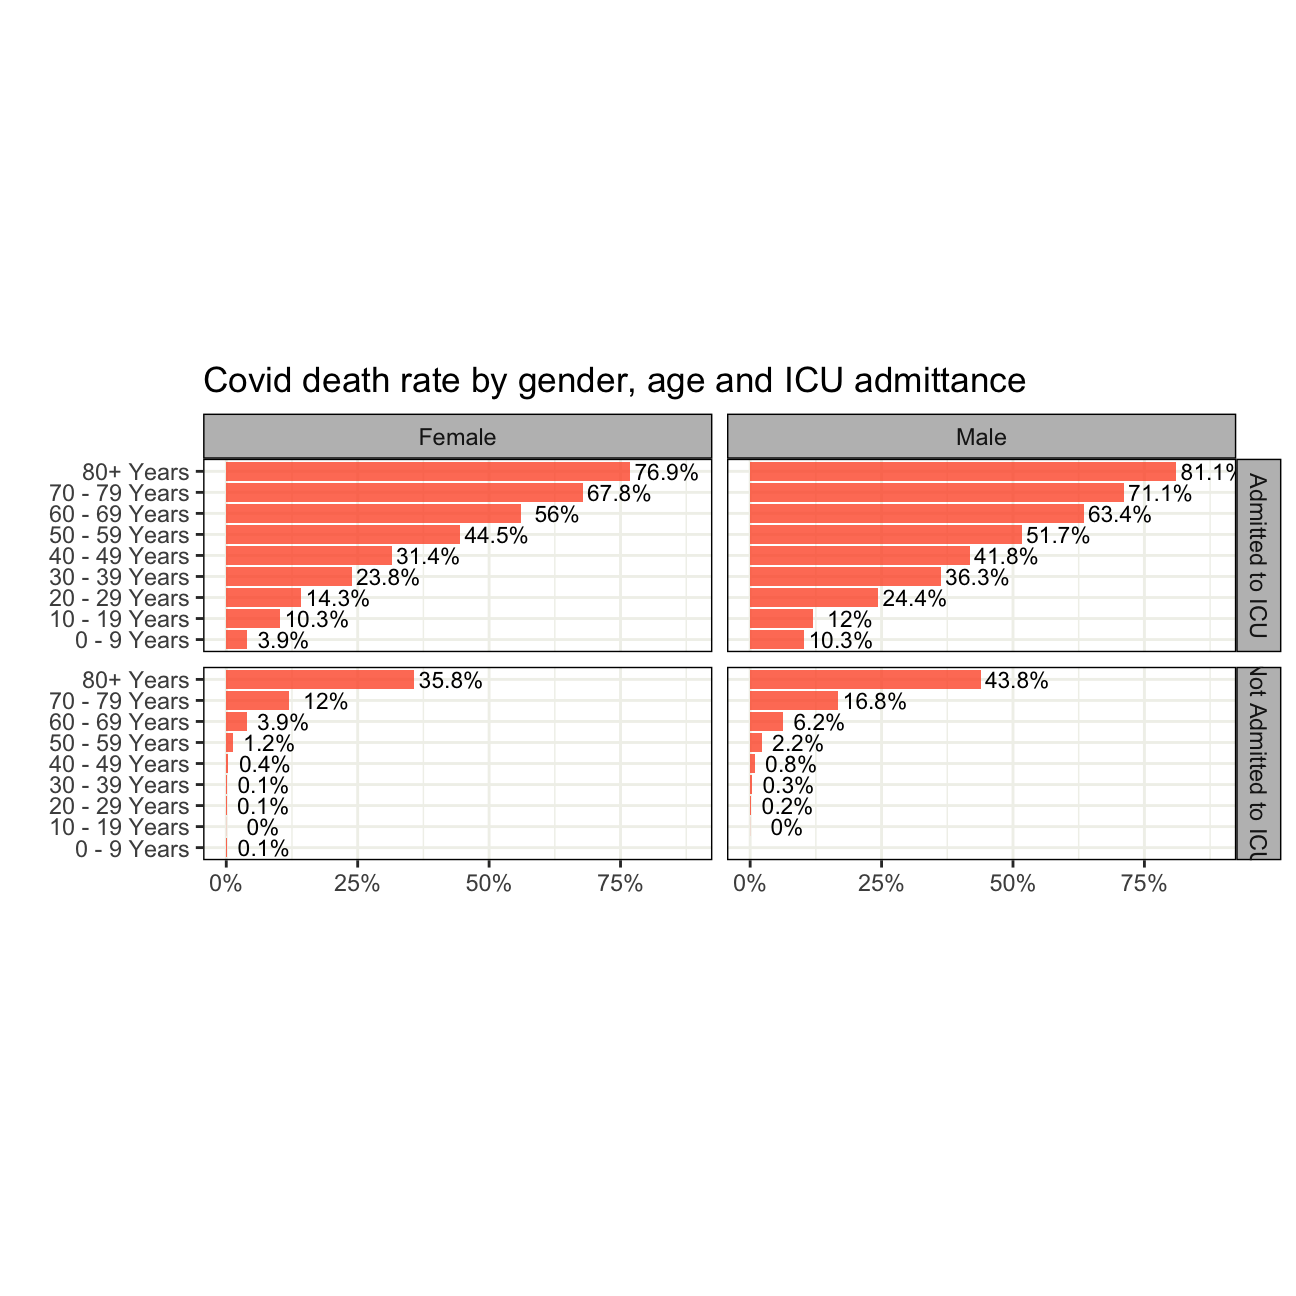
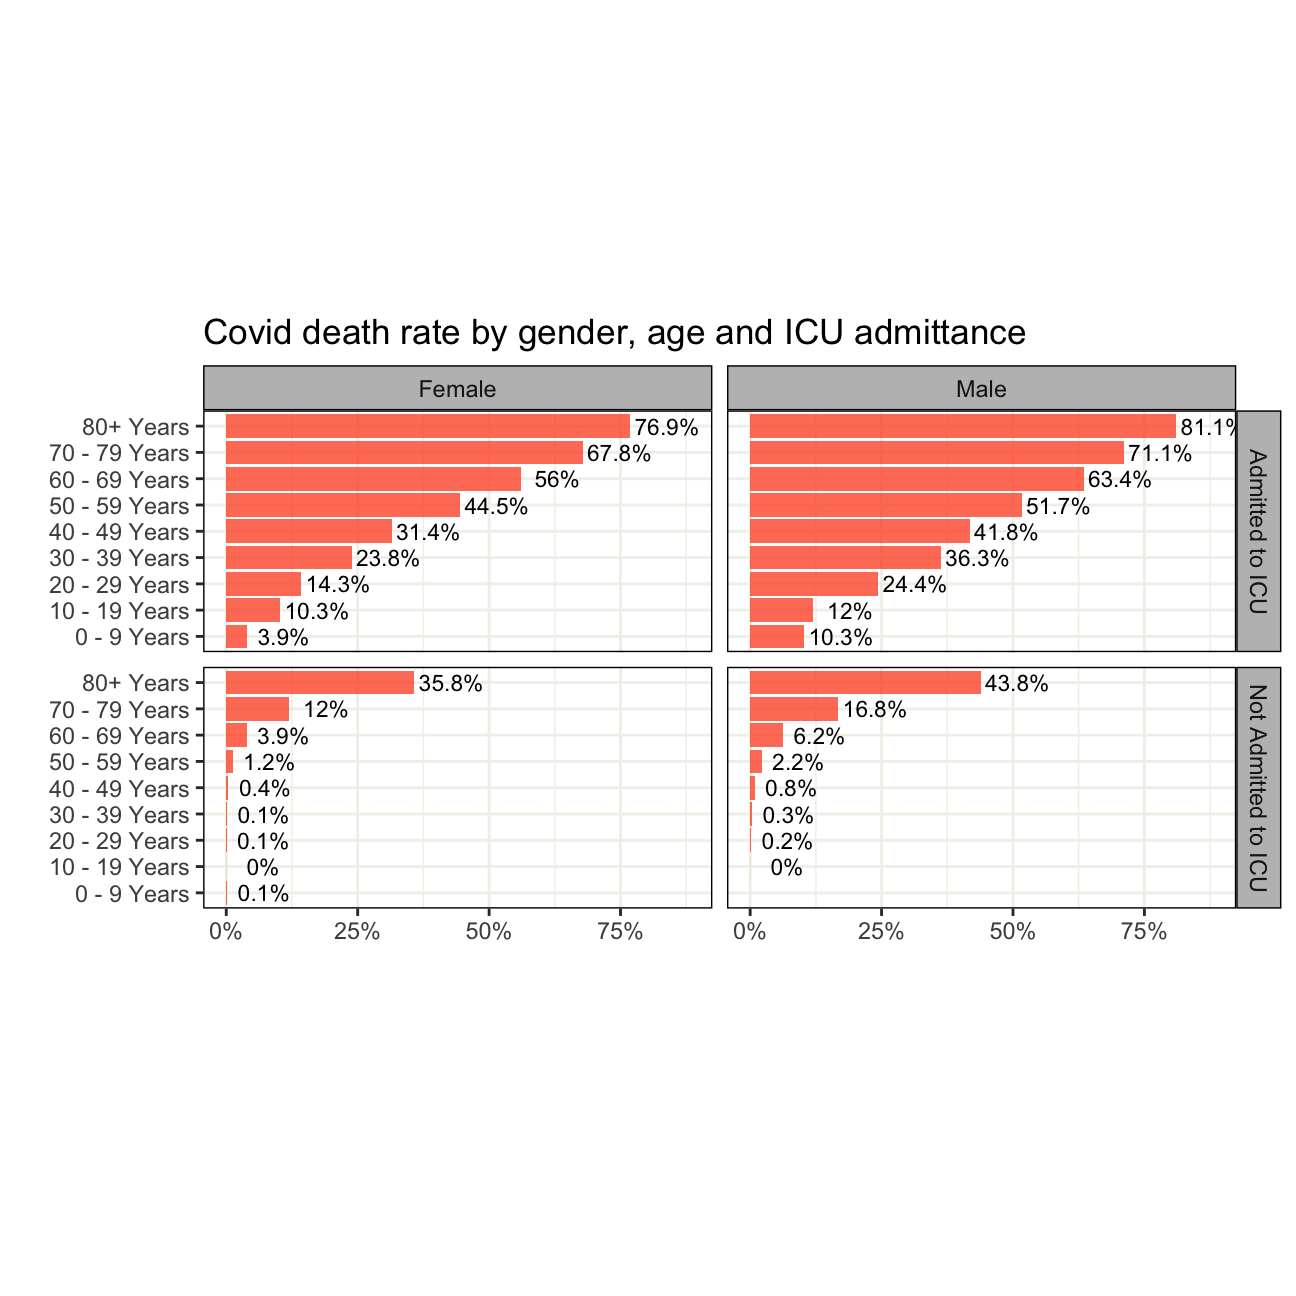
Project 1

Changed region(s): [[0.0309, 0.2469, 0.9877, 0.7407]]

diff --git a/content/projects/project1.html b/content/projects/project1.html
@@ -20,13 +20,14 @@ output:
 </div>
 <div id="cdc-covid-19-public-use-data" class="section level1">
 <h1>CDC COVID-19 Public Use Data</h1>
-<div id="in-this-project-i-will-look-at-to-what-extend-death-rates-of-covid-19-are-impacted-by-gender-age-cormorbidities-and-whether-the-patient-has-been-admitted-to-the-icu.-for-this-purpose-i-will-create-two-graphs" class="section level2">
-<h2>In this project I will look at to what extend death rates of covid 19 are impacted by gender, age, cormorbidities and whether the patient has been admitted to the ICU. For this purpose I will create two graphs</h2>
+<div id="in-this-project-i-will-look-at-how-covid-19-death-rates-are-affected-by-variables-such-as-gender-age-cormorbidities-and-whether-the-patient-has-been-admitted-to-the-icu.-for-this-purpose-i-will-create-two-graphs" class="section level3">
+<h3>In this project I will look at how covid-19 death rates are affected by variables such as gender, age, cormorbidities and whether the patient has been admitted to the ICU. For this purpose I will create two graphs</h3>
+</div>
 <div id="by-age-group-sex-and-whether-the-patient-had-co-morbidities-or-not" class="section level3">
-<h3>1. by age group, sex, and whether the patient had co-morbidities or not</h3>
+<h3>1. By age group, sex, and whether the patient had co-morbidities or not</h3>
 </div>
 <div id="by-age-group-sex-and-whether-the-patient-was-admited-to-intensive-care-unit-icu-or-not." class="section level3">
-<h3>2. by age group, sex, and whether the patient was admited to Intensive Care Unit (ICU) or not.</h3>
+<h3>2. By age group, sex, and whether the patient was admited to Intensive Care Unit (ICU) or not.</h3>
 <pre class="r"><code>#load the data
 url &lt;- &quot;https://data.cdc.gov/api/views/vbim-akqf/rows.csv?accessType=DOWNLOAD&quot;
 
@@ -215,10 +216,10 @@ covid_data &lt;- vroom::vroom(url)%&gt;% # If vroom::vroom(url) doesn&#39;t work
 </tbody>
 </table>
 </div>
-</div>
 <div id="by-age-group-sex-and-morbidity" class="section level2">
-<h2>By Age group, sex, and morbidity</h2>
-<pre class="r"><code>covid_data_clean_1 &lt;- covid_data %&gt;% 
+<h2>1. By Age group, sex, and morbidity</h2>
+<pre class="r"><code>#remove unknowns from relevant data
+covid_data_clean_1 &lt;- covid_data %&gt;% 
 filter(death_yn!=&quot;Missing&quot;) %&gt;% 
   filter(death_yn!=&quot;Unknown&quot;) %&gt;% 
   filter(age_group!=&quot;Unknown&quot;) %&gt;% 
@@ -228,9 +229,17 @@ filter(death_yn!=&quot;Missing&quot;) %&gt;%
   filter(medcond_yn!=&quot;Unknown&quot;) %&gt;%
   filter(sex!=&quot;Other&quot;)</code></pre>
 <pre class="r"><code>covid_morb&lt;- covid_data_clean_1 %&gt;% 
+
+#group data by age group, death_yn, sec and medical conditions 
   group_by(age_group,death_yn,sex,medcond_yn) %&gt;%
+  
+# count obersvations in each group 
   summarise(count=n()) %&gt;% 
+
+#pivot wider to create two coloumns from death_yn
   pivot_wider(names_from = death_yn, values_from = count) %&gt;% 
+
+#add coloumn for death rate 
   mutate(death_rate=(Yes/(Yes+No))) %&gt;% 
   mutate(death_rate_perc=paste(round(100*death_rate, 1), &quot;%&quot;, sep=&quot;&quot;))
 
@@ -250,26 +259,40 @@ covid_morb</code></pre>
 ##  9 20 - 29 Years Female No         41891     7   0.000167 0%             
 ## 10 20 - 29 Years Female Yes        22301    79   0.00353  0.4%           
 ## # … with 26 more rows</code></pre>
-<pre class="r"><code>covid_morb$medcond_yn_f = factor(covid_morb$medcond_yn, levels=c(&#39;Yes&#39;,&#39;No&#39;))
+<pre class="r"><code>#turn medcond_yn into a factor 
+covid_morb$medcond_yn_f = factor(covid_morb$medcond_yn, levels=c(&#39;Yes&#39;,&#39;No&#39;))
 
+#change label level names 
 morb.labs &lt;- c(&quot;Without comorbidities&quot;, &quot;With comorbidities&quot;)
 names(morb.labs) &lt;- c(medcond_yn_f=&quot;No&quot;, medcond_yn_f=&quot;Yes&quot;)
 
+#plot data
 ggplot(covid_morb, aes(x=death_rate,y=age_group))+
   geom_col(alpha=0.8,fill=&quot;#6C7EA2&quot;)+
+  
+#use facet grid to generate four charts overall 
   facet_grid(medcond_yn_f~sex, 
                ,labeller=labeller(medcond_yn_f=morb.labs))+
+  
+#add labels 
   labs(title=&quot;Covid death rate by age group, sex and presence of co-morbidities&quot;,x=&quot;&quot;,y=&quot;&quot;)+
   scale_x_continuous(labels=scales::percent)+
+  
+#move labels in graph 
   geom_text(aes(label=death_rate_perc),nudge_x = 0.07, size=3)+
+  
+#change ratios of graph 
   coord_fixed(ratio = 0.04)+
+
+#adapt theme 
    theme(strip.background = element_rect(
      color=&quot;black&quot;, fill=&quot;grey&quot;, linetype=&quot;solid&quot;), panel.background = element_rect(fill = &quot;white&quot;),panel.grid=element_line(size=0.5, colour=&quot;#F1F1EB&quot;), panel.border = element_rect(fill=NA))</code></pre>
 <p><img src="/projects/project1_files/figure-html/unnamed-chunk-4-1.png" width="648" style="display: block; margin: auto;" /></p>
 </div>
 <div id="by-age-group-sex-and-admissions-to-icu" class="section level2">
-<h2>By age group, sex and admissions to ICU</h2>
-<pre class="r"><code>covid_data_clean_2 &lt;- covid_data %&gt;% 
+<h2>2. By age group, sex and admissions to ICU</h2>
+<pre class="r"><code>#remove unknowns from relevant data
+covid_data_clean_2 &lt;- covid_data %&gt;% 
   filter(death_yn!=&quot;Missing&quot;) %&gt;% 
   filter(death_yn!=&quot;Unknown&quot;) %&gt;% 
   filter(age_group!=&quot;Unknown&quot;) %&gt;% 
@@ -282,9 +305,17 @@ ggplot(covid_morb, aes(x=death_rate,y=age_group))+
   filter(sex!=&quot;Other&quot;)
          
 covid_icu&lt;- covid_data_clean_2 %&gt;% 
+
+# group by age, death_yn, sex, and icu admission
   group_by(age_group,death_yn,sex,icu_yn) %&gt;%
+
+# count observations
   summarise(count=n()) %&gt;% 
+
+#pivot wider to create two coloumns from death_yn
   pivot_wider(names_from = death_yn, values_from = count) %&gt;% 
+  
+#add coloumn for death rate
   mutate(death_rate=(Yes/(Yes+No))) %&gt;% 
   mutate(death_rate_perc=paste(round(100*death_rate, 1), &quot;%&quot;, sep=&quot;&quot;))
 
@@ -304,19 +335,33 @@ covid_icu</code></pre>
 ##  9 20 - 29 Years Female No     29087    15   0.000515 0.1%           
 ## 10 20 - 29 Years Female Yes      204    34   0.143    14.3%          
 ## # … with 26 more rows</code></pre>
-<pre class="r"><code>covid_icu$icu_yn_f = factor(covid_icu$icu_yn, levels=c(&#39;Yes&#39;,&#39;No&#39;))
+<pre class="r"><code>#turn icu admissions into factor
+covid_icu$icu_yn_f = factor(covid_icu$icu_yn, levels=c(&#39;Yes&#39;,&#39;No&#39;))
 
+#change levels for icu admissions
 icu.labs &lt;- c(&quot;Not Admitted to ICU&quot;, &quot;Admitted to ICU&quot;)
 names(icu.labs) &lt;- c(icu_yn_f=&quot;No&quot;, icu_yn_f=&quot;Yes&quot;)
 
 ggplot(covid_icu, aes(x=death_rate,y=age_group))+
   geom_col(alpha=0.8,fill=&quot;#FF5B33&quot;)+
+  
+#use facet grid to generate 4 graphs
   facet_grid(icu_yn_f~sex, 
                , labeller=labeller(icu_yn_f=icu.labs))+
+
+#add labels 
   labs(title=&quot;Covid death rate by gender, age and ICU admittance&quot;,x=&quot;&quot;,y=&quot;&quot;)+
+
+# adapt scale
   scale_x_continuous(labels=scales::percent)+
+
+# move labels 
   geom_text(aes(label=death_rate_perc),nudge_x = 0.07, size=3)+
-  coord_fixed(ratio = 0.04)+
+  
+#adapt graph ratios 
+  coord_fixed(ratio = 0.05)+
+
+#add theme 
   theme(strip.background = element_rect(
      color=&quot;black&quot;, fill=&quot;grey&quot;, linetype=&quot;solid&quot;), panel.background = element_rect(fill = &quot;white&quot;),panel.grid=element_line(size=0.5, colour=&quot;#F1F1EB&quot;), panel.border = element_rect(fill=NA))</code></pre>
 <p><img src="/projects/project1_files/figure-html/unnamed-chunk-5-1.png" width="648" style="display: block; margin: auto;" /></p>

diff --git a/public/projects/project1/index.html b/public/projects/project1/index.html
@@ -89,13 +89,14 @@
 </div>
 <div id="cdc-covid-19-public-use-data" class="section level1">
 <h1>CDC COVID-19 Public Use Data</h1>
-<div id="in-this-project-i-will-look-at-to-what-extend-death-rates-of-covid-19-are-impacted-by-gender-age-cormorbidities-and-whether-the-patient-has-been-admitted-to-the-icu.-for-this-purpose-i-will-create-two-graphs" class="section level2">
-<h2>In this project I will look at to what extend death rates of covid 19 are impacted by gender, age, cormorbidities and whether the patient has been admitted to the ICU. For this purpose I will create two graphs</h2>
+<div id="in-this-project-i-will-look-at-how-covid-19-death-rates-are-affected-by-variables-such-as-gender-age-cormorbidities-and-whether-the-patient-has-been-admitted-to-the-icu.-for-this-purpose-i-will-create-two-graphs" class="section level3">
+<h3>In this project I will look at how covid-19 death rates are affected by variables such as gender, age, cormorbidities and whether the patient has been admitted to the ICU. For this purpose I will create two graphs</h3>
+</div>
 <div id="by-age-group-sex-and-whether-the-patient-had-co-morbidities-or-not" class="section level3">
-<h3>1. by age group, sex, and whether the patient had co-morbidities or not</h3>
+<h3>1. By age group, sex, and whether the patient had co-morbidities or not</h3>
 </div>
 <div id="by-age-group-sex-and-whether-the-patient-was-admited-to-intensive-care-unit-icu-or-not." class="section level3">
-<h3>2. by age group, sex, and whether the patient was admited to Intensive Care Unit (ICU) or not.</h3>
+<h3>2. By age group, sex, and whether the patient was admited to Intensive Care Unit (ICU) or not.</h3>
 <pre class="r"><code>#load the data
 url &lt;- &quot;https://data.cdc.gov/api/views/vbim-akqf/rows.csv?accessType=DOWNLOAD&quot;
 
@@ -284,10 +285,10 @@ covid_data &lt;- vroom::vroom(url)%&gt;% # If vroom::vroom(url) doesn&#39;t work
 </tbody>
 </table>
 </div>
-</div>
 <div id="by-age-group-sex-and-morbidity" class="section level2">
-<h2>By Age group, sex, and morbidity</h2>
-<pre class="r"><code>covid_data_clean_1 &lt;- covid_data %&gt;% 
+<h2>1. By Age group, sex, and morbidity</h2>
+<pre class="r"><code>#remove unknowns from relevant data
+covid_data_clean_1 &lt;- covid_data %&gt;% 
 filter(death_yn!=&quot;Missing&quot;) %&gt;% 
   filter(death_yn!=&quot;Unknown&quot;) %&gt;% 
   filter(age_group!=&quot;Unknown&quot;) %&gt;% 
@@ -297,9 +298,17 @@ filter(death_yn!=&quot;Missing&quot;) %&gt;%
   filter(medcond_yn!=&quot;Unknown&quot;) %&gt;%
   filter(sex!=&quot;Other&quot;)</code></pre>
 <pre class="r"><code>covid_morb&lt;- covid_data_clean_1 %&gt;% 
+
+#group data by age group, death_yn, sec and medical conditions 
   group_by(age_group,death_yn,sex,medcond_yn) %&gt;%
+  
+# count obersvations in each group 
   summarise(count=n()) %&gt;% 
+
+#pivot wider to create two coloumns from death_yn
   pivot_wider(names_from = death_yn, values_from = count) %&gt;% 
+
+#add coloumn for death rate 
   mutate(death_rate=(Yes/(Yes+No))) %&gt;% 
   mutate(death_rate_perc=paste(round(100*death_rate, 1), &quot;%&quot;, sep=&quot;&quot;))
 
@@ -319,26 +328,40 @@ covid_morb</code></pre>
 ##  9 20 - 29 Years Female No         41891     7   0.000167 0%             
 ## 10 20 - 29 Years Female Yes        22301    79   0.00353  0.4%           
 ## # … with 26 more rows</code></pre>
-<pre class="r"><code>covid_morb$medcond_yn_f = factor(covid_morb$medcond_yn, levels=c(&#39;Yes&#39;,&#39;No&#39;))
+<pre class="r"><code>#turn medcond_yn into a factor 
+covid_morb$medcond_yn_f = factor(covid_morb$medcond_yn, levels=c(&#39;Yes&#39;,&#39;No&#39;))
 
+#change label level names 
 morb.labs &lt;- c(&quot;Without comorbidities&quot;, &quot;With comorbidities&quot;)
 names(morb.labs) &lt;- c(medcond_yn_f=&quot;No&quot;, medcond_yn_f=&quot;Yes&quot;)
 
+#plot data
 ggplot(covid_morb, aes(x=death_rate,y=age_group))+
   geom_col(alpha=0.8,fill=&quot;#6C7EA2&quot;)+
+  
+#use facet grid to generate four charts overall 
   facet_grid(medcond_yn_f~sex, 
                ,labeller=labeller(medcond_yn_f=morb.labs))+
+  
+#add labels 
   labs(title=&quot;Covid death rate by age group, sex and presence of co-morbidities&quot;,x=&quot;&quot;,y=&quot;&quot;)+
   scale_x_continuous(labels=scales::percent)+
+  
+#move labels in graph 
   geom_text(aes(label=death_rate_perc),nudge_x = 0.07, size=3)+
+  
+#change ratios of graph 
   coord_fixed(ratio = 0.04)+
+
+#adapt theme 
    theme(strip.background = element_rect(
      color=&quot;black&quot;, fill=&quot;grey&quot;, linetype=&quot;solid&quot;), panel.background = element_rect(fill = &quot;white&quot;),panel.grid=element_line(size=0.5, colour=&quot;#F1F1EB&quot;), panel.border = element_rect(fill=NA))</code></pre>
 <p><img src="/projects/project1_files/figure-html/unnamed-chunk-4-1.png" width="648" style="display: block; margin: auto;" /></p>
 </div>
 <div id="by-age-group-sex-and-admissions-to-icu" class="section level2">
-<h2>By age group, sex and admissions to ICU</h2>
-<pre class="r"><code>covid_data_clean_2 &lt;- covid_data %&gt;% 
+<h2>2. By age group, sex and admissions to ICU</h2>
+<pre class="r"><code>#remove unknowns from relevant data
+covid_data_clean_2 &lt;- covid_data %&gt;% 
   filter(death_yn!=&quot;Missing&quot;) %&gt;% 
   filter(death_yn!=&quot;Unknown&quot;) %&gt;% 
   filter(age_group!=&quot;Unknown&quot;) %&gt;% 
@@ -351,9 +374,17 @@ ggplot(covid_morb, aes(x=death_rate,y=age_group))+
   filter(sex!=&quot;Other&quot;)
          
 covid_icu&lt;- covid_data_clean_2 %&gt;% 
+
+# group by age, death_yn, sex, and icu admission
   group_by(age_group,death_yn,sex,icu_yn) %&gt;%
+
+# count observations
   summarise(count=n()) %&gt;% 
+
+#pivot wider to create two coloumns from death_yn
   pivot_wider(names_from = death_yn, values_from = count) %&gt;% 
+  
+#add coloumn for death rate
   mutate(death_rate=(Yes/(Yes+No))) %&gt;% 
   mutate(death_rate_perc=paste(round(100*death_rate, 1), &quot;%&quot;, sep=&quot;&quot;))
 
@@ -373,19 +404,33 @@ covid_icu</code></pre>
 ##  9 20 - 29 Years Female No     29087    15   0.000515 0.1%           
 ## 10 20 - 29 Years Female Yes      204    34   0.143    14.3%          
 ## # … with 26 more rows</code></pre>
-<pre class="r"><code>covid_icu$icu_yn_f = factor(covid_icu$icu_yn, levels=c(&#39;Yes&#39;,&#39;No&#39;))
+<pre class="r"><code>#turn icu admissions into factor
+covid_icu$icu_yn_f = factor(covid_icu$icu_yn, levels=c(&#39;Yes&#39;,&#39;No&#39;))
 
+#change levels for icu admissions
 icu.labs &lt;- c(&quot;Not Admitted to ICU&quot;, &quot;Admitted to ICU&quot;)
 names(icu.labs) &lt;- c(icu_yn_f=&quot;No&quot;, icu_yn_f=&quot;Yes&quot;)
 
 ggplot(covid_icu, aes(x=death_rate,y=age_group))+
   geom_col(alpha=0.8,fill=&quot;#FF5B33&quot;)+
+  
+#use facet grid to generate 4 graphs
   facet_grid(icu_yn_f~sex, 
                , labeller=labeller(icu_yn_f=icu.labs))+
+
+#add labels 
   labs(title=&quot;Covid death rate by gender, age and ICU admittance&quot;,x=&quot;&quot;,y=&quot;&quot;)+
+
+# adapt scale
   scale_x_continuous(labels=scales::percent)+
+
+# move labels 
   geom_text(aes(label=death_rate_perc),nudge_x = 0.07, size=3)+
-  coord_fixed(ratio = 0.04)+
+  
+#adapt graph ratios 
+  coord_fixed(ratio = 0.05)+
+
+#add theme 
   theme(strip.background = element_rect(
      color=&quot;black&quot;, fill=&quot;grey&quot;, linetype=&quot;solid&quot;), panel.background = element_rect(fill = &quot;white&quot;),panel.grid=element_line(size=0.5, colour=&quot;#F1F1EB&quot;), panel.border = element_rect(fill=NA))</code></pre>
 <p><img src="/projects/project1_files/figure-html/unnamed-chunk-5-1.png" width="648" style="display: block; margin: auto;" /></p>
